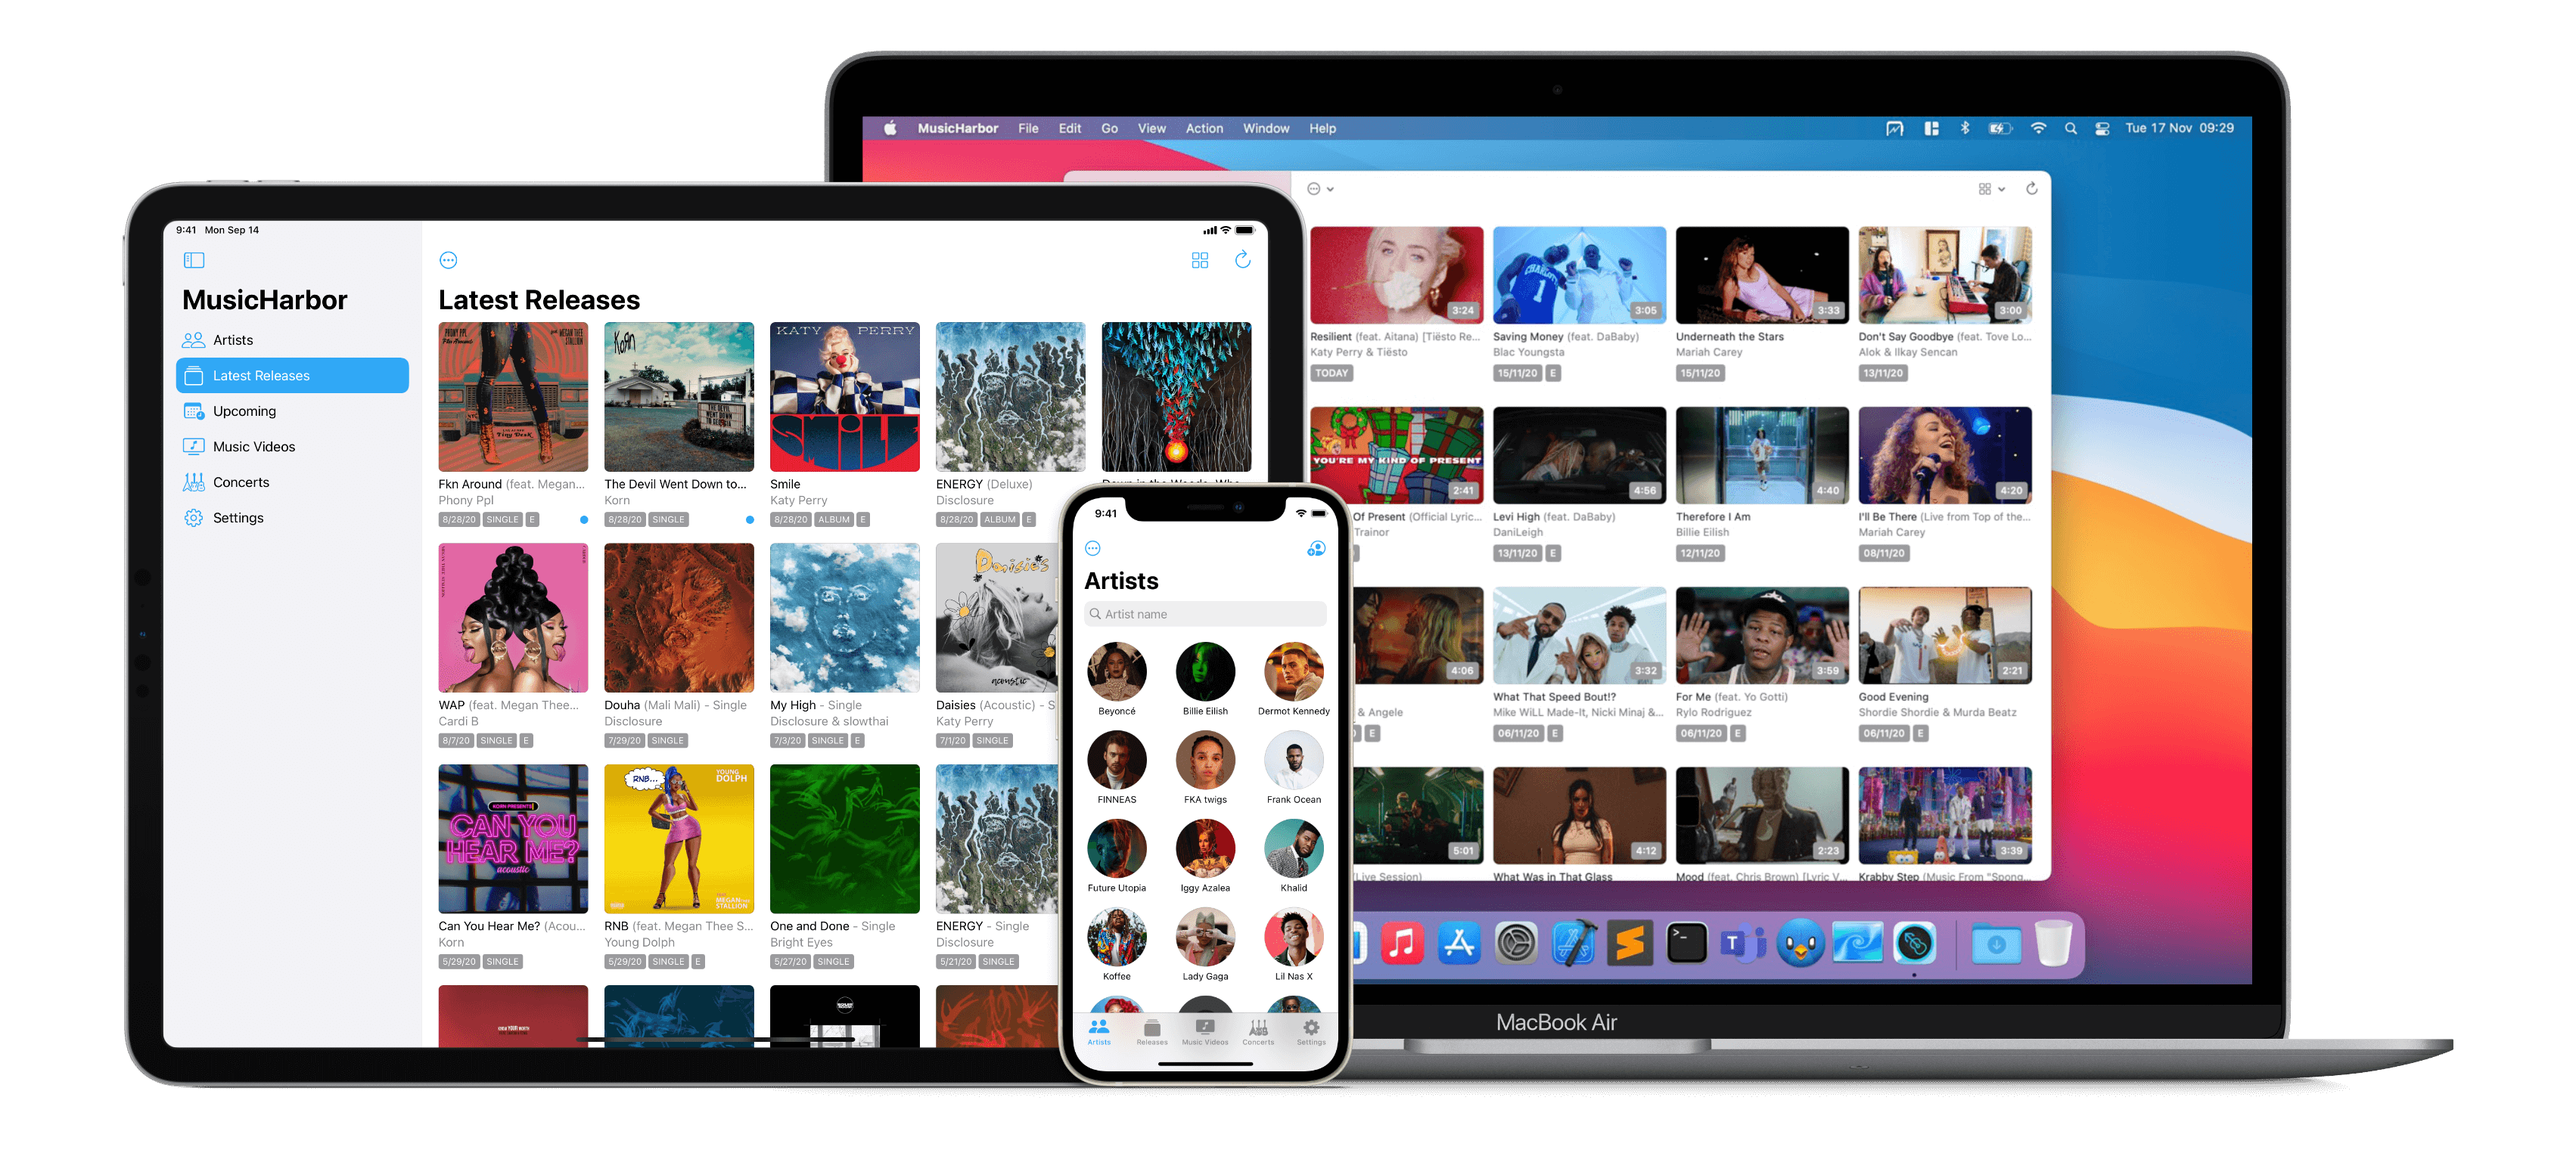
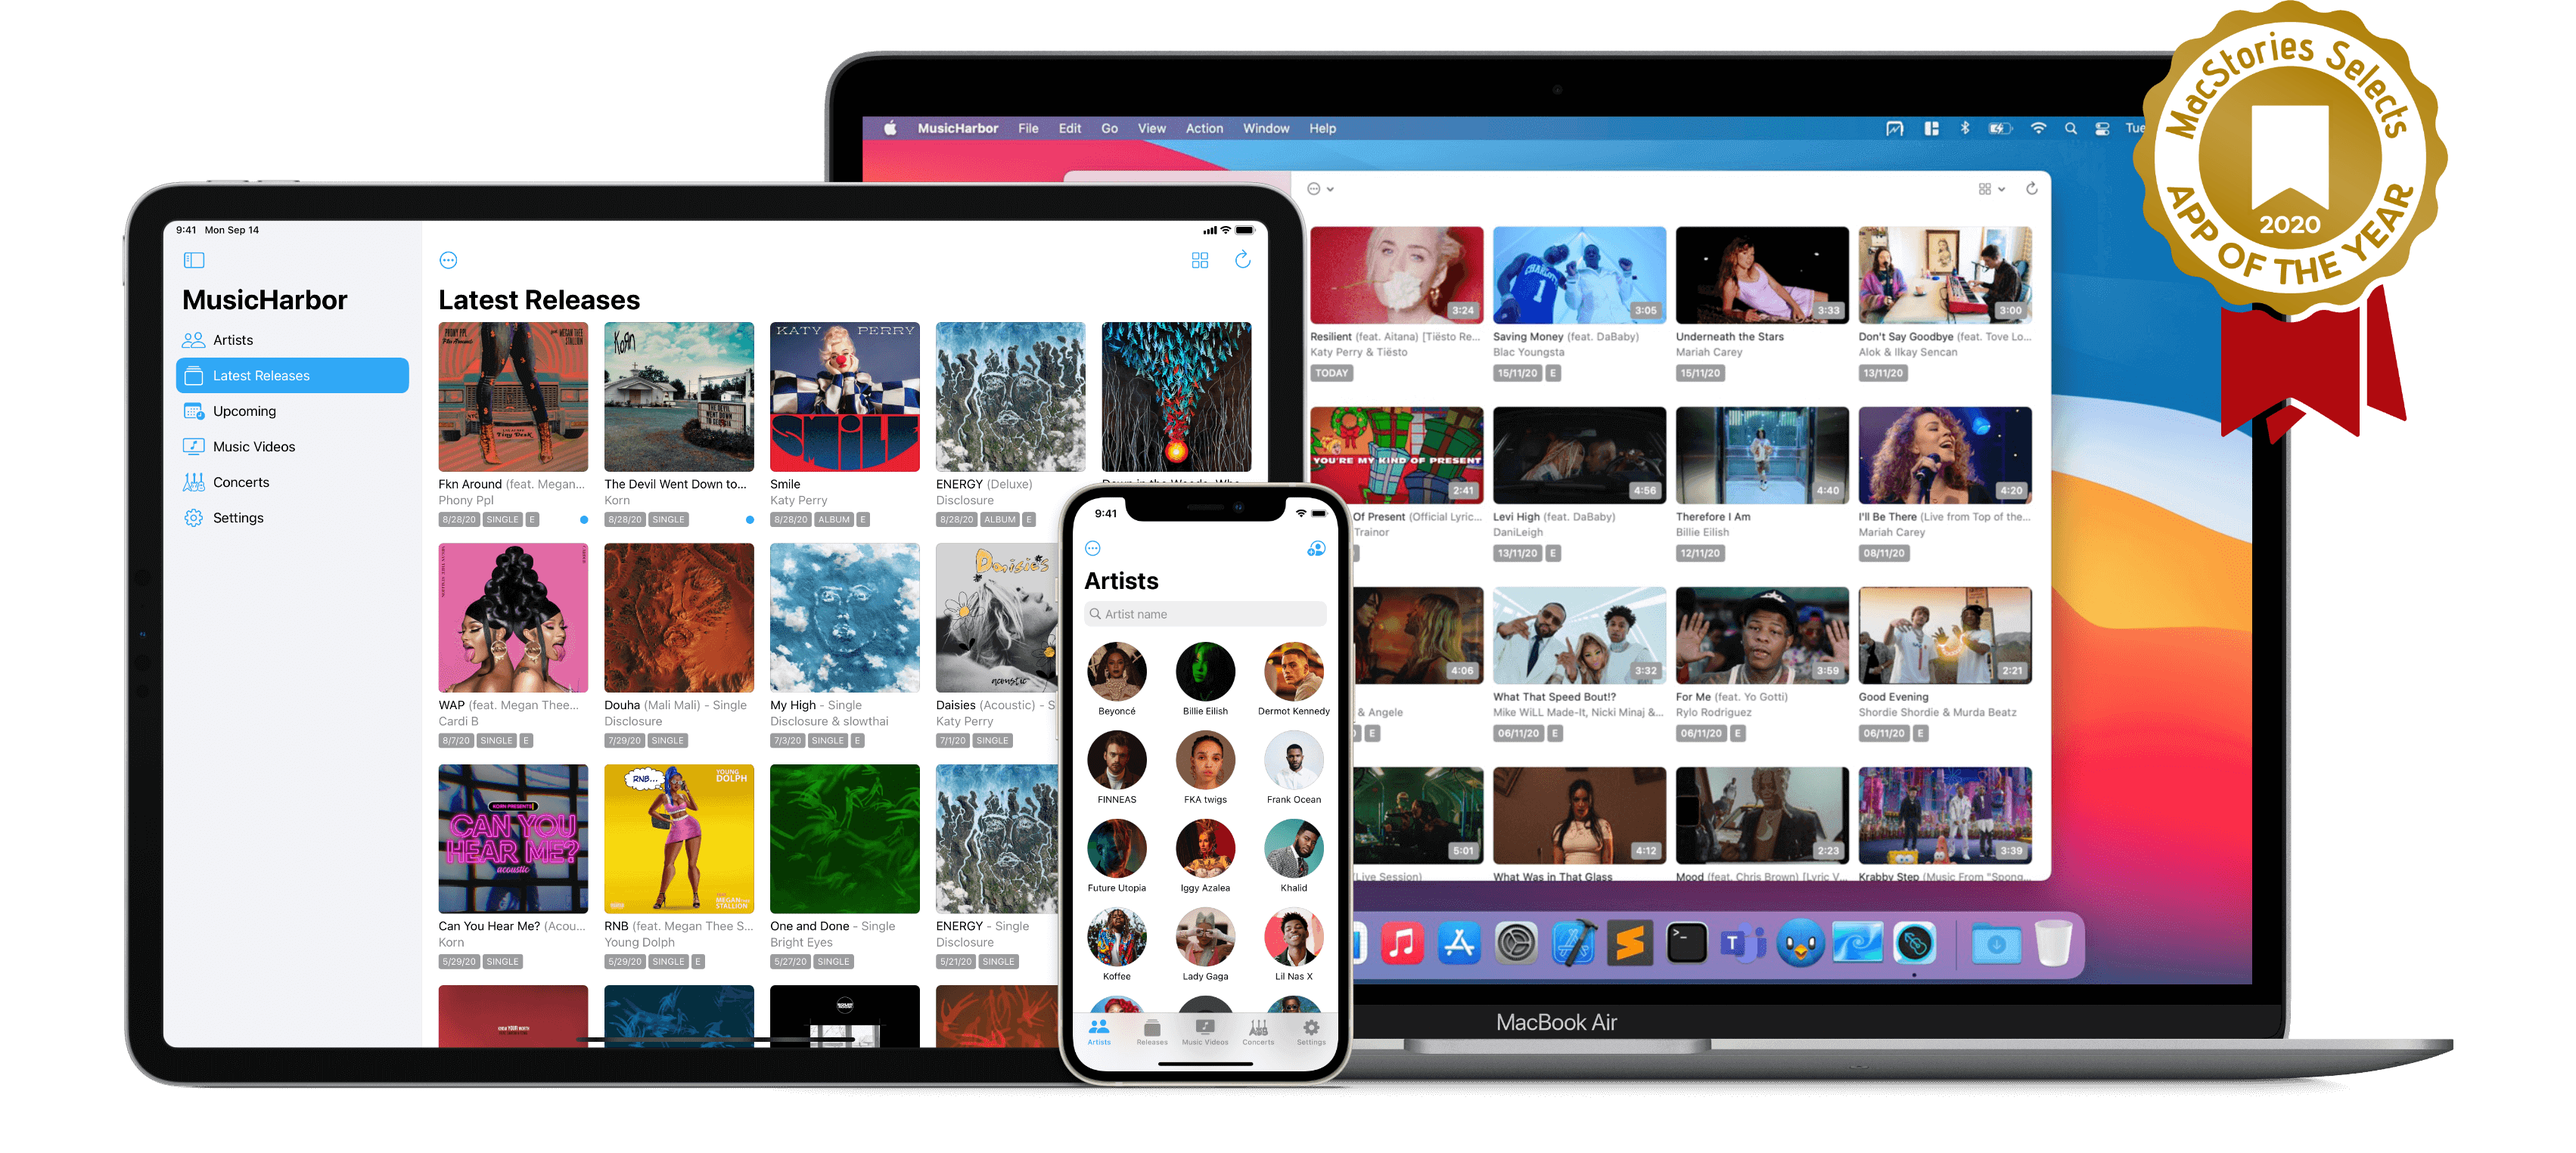
Adds MacStories Selects Awards

Changed region(s): [[0.8094, 0.0, 0.9651, 0.3698], [0.6537, 0.0925, 0.6849, 0.1233]]

diff --git a/index.html b/index.html
@@ -45,7 +45,7 @@
                         <p class="title is-3">MusicHarbor</p>
                         <div class="columns">
                         	<div class="column is-6 is-offset-3">
-			                    <p><strong>App Store featured</strong> app that integrates with <strong>Apple Music</strong> and <strong>Spotify</strong>, and enables you to track new <strong>music releases, music videos, concert dates and news</strong> from your favorite artists.</strong></p>
+			                    <p><strong>App Store featured</strong> app that integrates with <strong>Apple Music</strong> and <strong>Spotify</strong>, and enables you to track new <strong>music releases, music videos, concert dates and news</strong> from your favorite artists.</strong> Named the App of the Year for 2020 as part of the annual <a href="https://www.macstories.net/stories/macstories-selects-2020-recognizing-the-best-apps-of-the-year/#app-of-the-year"><strong>MacStories Selects Awards.</strong></a></p>
 			                </div>
                         </div>
                         <a href="https://apps.apple.com/us/app/musicharbor/id1440405750">
